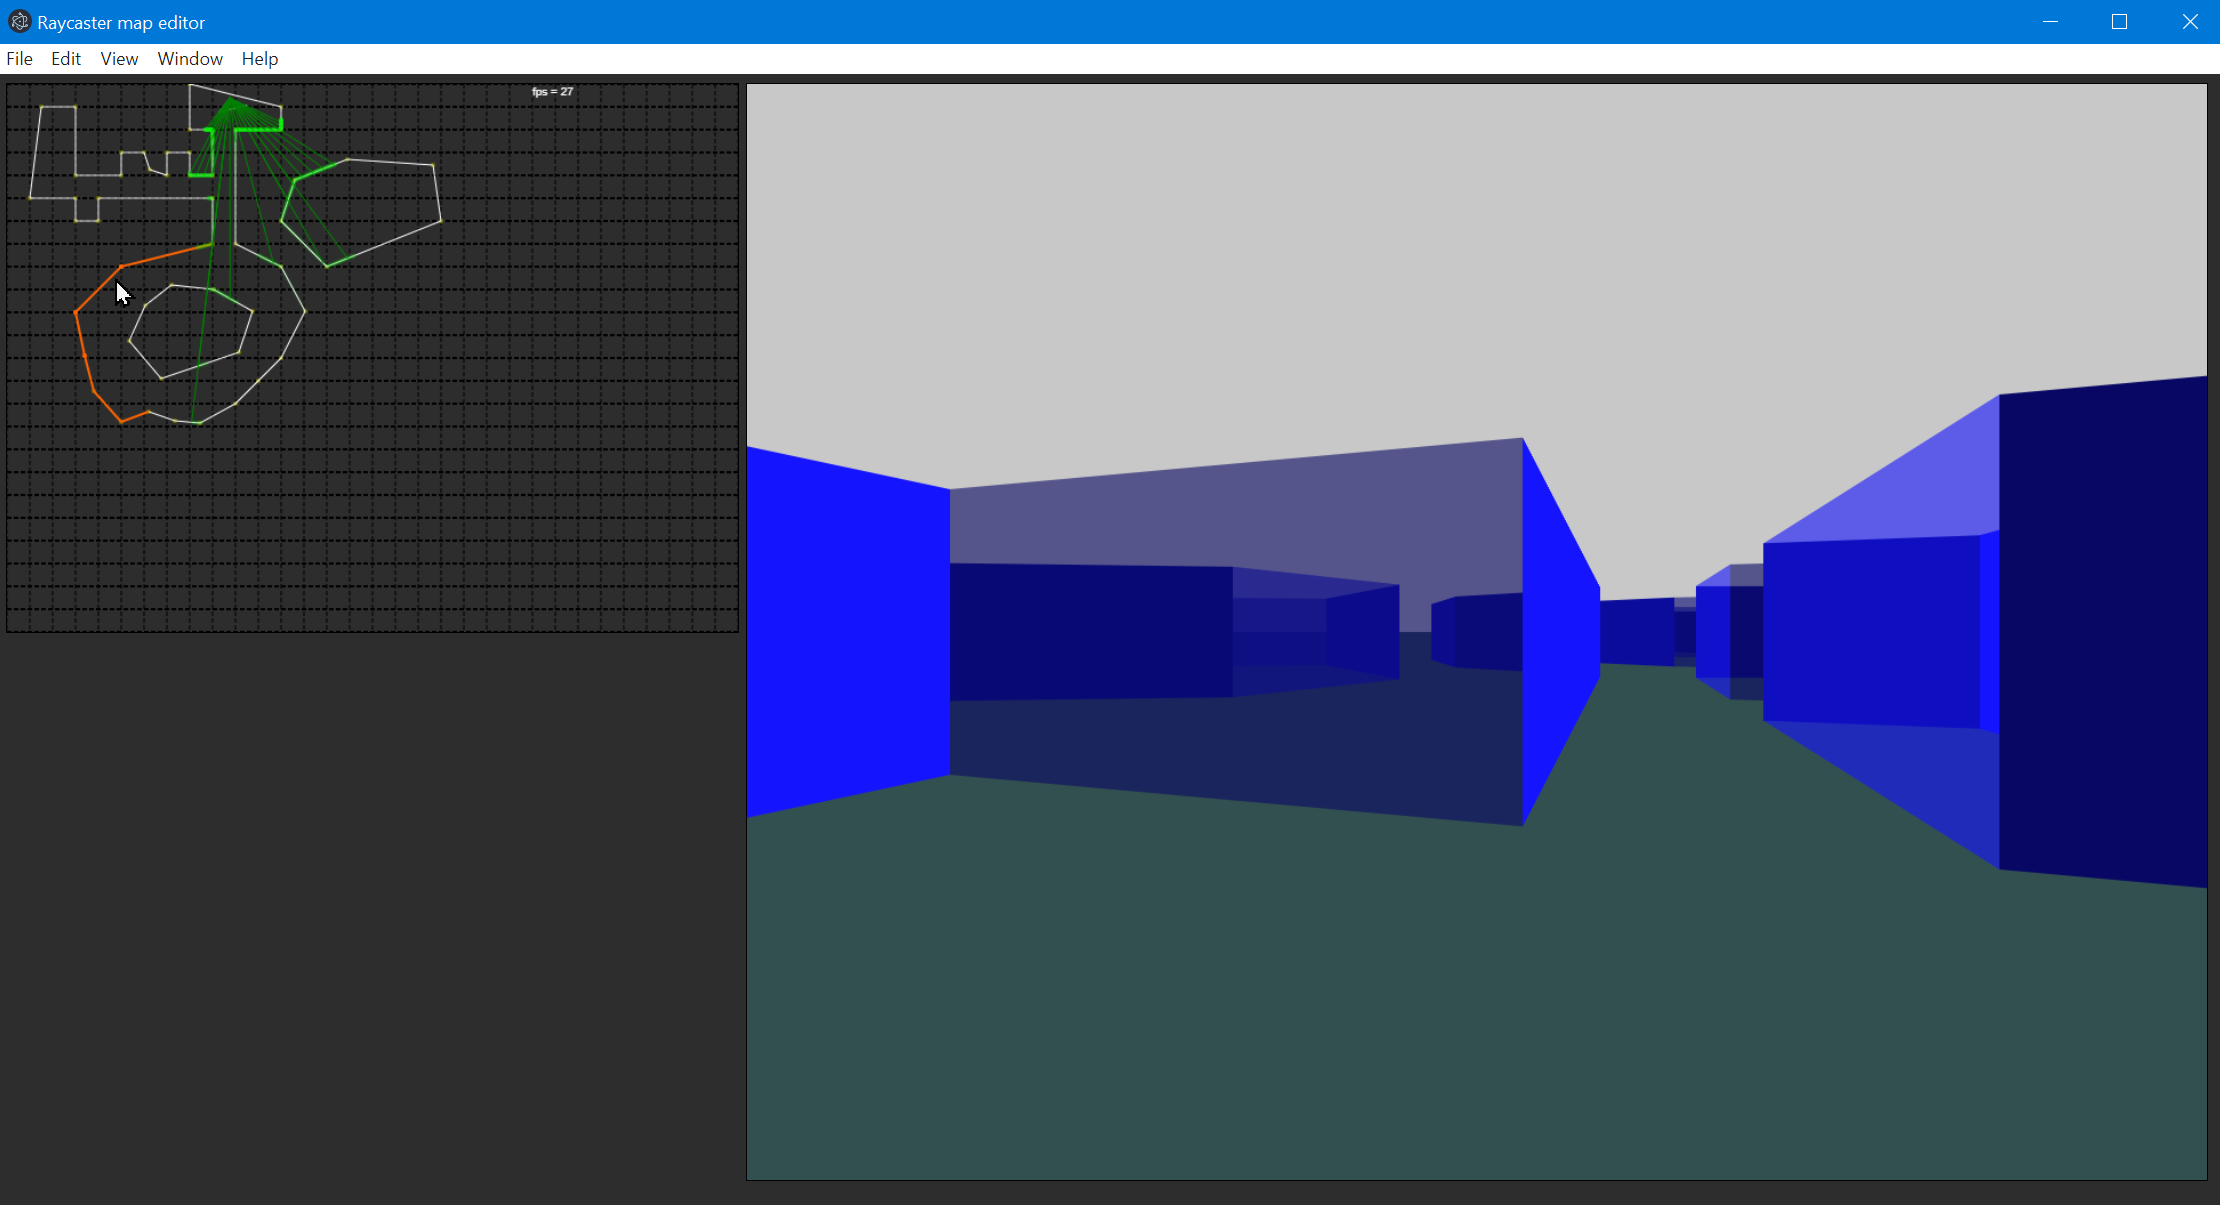
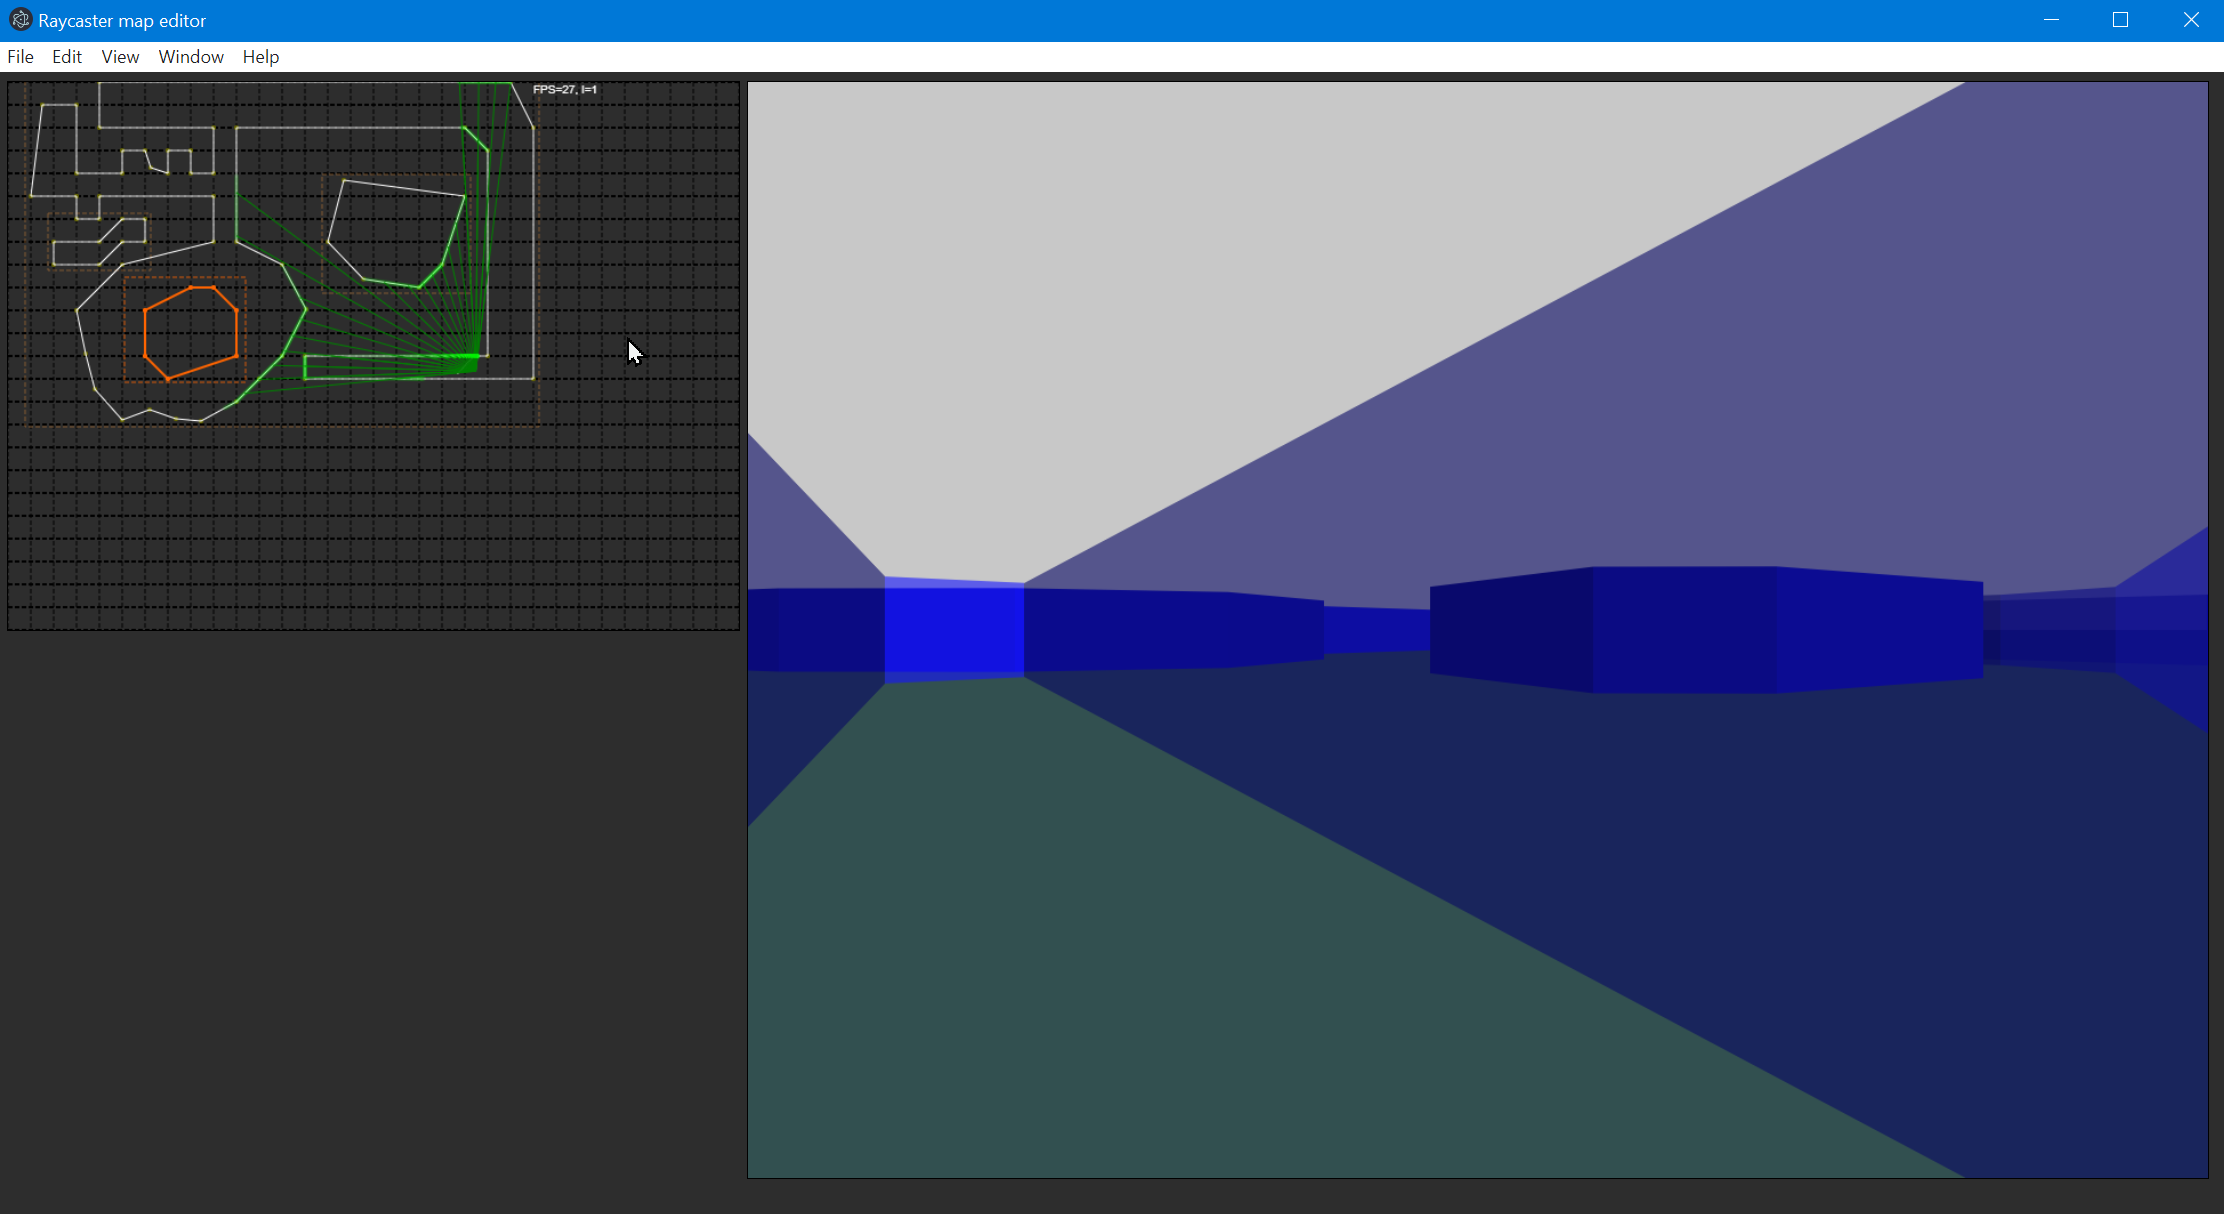
add ability to select entire polygon

diff --git a/src/renderer2d.ts b/src/renderer2d.ts
@@ -1,7 +1,7 @@
 import { ICamera, makeRays } from './camera';
 import { drawSegment, drawVector, drawRect, drawBoundingBox } from './drawing/drawing';
 import { IEdge, IGeometry, IVertex } from './geometry/vertex';
-import { hasEdge, hasVertex, World } from './world';
+import { isSelectedEdge, isSelectedVertex, isSelectedPolygon, World } from './world';
 
 export class Renderer2d {
     private context: CanvasRenderingContext2D;
@@ -42,23 +42,26 @@ export class Renderer2d {
     };
 
     private drawGeometry = (context: CanvasRenderingContext2D, geometry: IGeometry) => {
+        
         geometry.polygons.forEach(p => {
-            drawBoundingBox(context, p.boundingBox);
-            p.vertices.forEach(e => this.drawVertex(context, e));
-            p.edges.forEach(e => this.drawEdge(context, e));
+            const selected = isSelectedPolygon(p, this.world.selection);
+            drawBoundingBox(context, p.boundingBox, selected ? 'rgb(255,100,0,0.8)' : 'rgb(150,100,50,0.8)');
+            p.vertices.forEach(e => this.drawVertex(context, e, selected));
+            p.edges.forEach(e => this.drawEdge(context, e, selected));
         });
     };
 
-    private drawEdge = (context: CanvasRenderingContext2D, edge: IEdge) => {
-        const selected = hasEdge(edge, this.world.selection);
+    private drawEdge = (context: CanvasRenderingContext2D, edge: IEdge, selected: boolean = false) => {
+        selected = selected || isSelectedEdge(edge, this.world.selection);
         const color = selected ? 'rgb(255,100,0)' : 'rgb(255,255,255)';
         const width = selected ? 2 : 1;
         drawSegment(context, [edge.start.vector, edge.end.vector], color, width);
     };
    
 
-    private drawVertex = (context: CanvasRenderingContext2D, vertex: IVertex, color: string = 'rgb(100,100,0)') => {
-        drawVector(context, vertex.vector, hasVertex(vertex, this.world.selection) ? 'rgb(250,100,0)' : color);
+    private drawVertex = (context: CanvasRenderingContext2D, vertex: IVertex, selected: boolean = false) => {
+        selected = selected || isSelectedVertex(vertex, this.world.selection);
+        drawVector(context, vertex.vector, selected ? 'rgb(250,100,0)' : 'rgb(100,100,0)');
     };    
 
     private initGrid = () => {        

diff --git a/src/world.ts b/src/world.ts
@@ -5,8 +5,9 @@ import { loadGeometry } from './geometry/geometry';
 
 export type SelectedVertex = {kind: 'vertex', vertex: IVertex, polygon: IPolygon};
 export type SelectedEdge = {kind: 'edge', edge: IEdge, polygon: IPolygon};
+export type SelectedPolygon = {kind: 'polygon', polygon: IPolygon};
 
-export type SelectableElement = SelectedVertex | SelectedEdge;
+export type SelectableElement = SelectedVertex | SelectedEdge | SelectedPolygon;
 export type World = {
     camera: ICamera,    
     geometry: IGeometry,
@@ -16,9 +17,12 @@ export type World = {
 
 export const loadWorld = (world : World): World => ({...world, geometry: loadGeometry(world.geometry)});
 
-export const hasEdge = (edge: IEdge, selection: SelectableElement[]): boolean => {
+export const isSelectedPolygon = (p: IPolygon, selection: SelectableElement[]): boolean => {
+    return selection.some(_=>_.kind === 'polygon' && _.polygon === p);
+}
+export const isSelectedEdge = (edge: IEdge, selection: SelectableElement[]): boolean => {
     return selection.some(_=>_.kind === 'edge' && _.edge === edge);
 }
-export const hasVertex = (vertex: IVertex, selection: SelectableElement[]): boolean => {
+export const isSelectedVertex = (vertex: IVertex, selection: SelectableElement[]): boolean => {
     return selection.some(_=>_.kind === 'vertex' && _.vertex === vertex);
 }

diff --git a/src/actions/geometrySelector.ts b/src/actions/geometrySelector.ts
@@ -19,9 +19,9 @@ export class GeometrySelector implements IActionHandler {
         const collision = detectCollisionAt(location, this.world.geometry);
         if (!event.ctrlKey) this.world.selection.length = 0;
         if (!collision) return;
-        let s = selectedElement(collision);
+        let s = selectedElement(collision, event.shiftKey);
         let i = this.world.selection.indexOf(s);
-    
+        
         if (i === -1) {               
             this.world.selection.push(s);
         } else {
@@ -46,7 +46,8 @@ export const spaceTranslator = (canvas: HTMLCanvasElement): ISpaceTranslator => 
     }
 }
 
-const selectedElement = (collision : VertexCollision|EdgeCollision): SelectableElement => {
+const selectedElement = (collision : VertexCollision|EdgeCollision, selectPolygon: boolean): SelectableElement => {
+    if (selectPolygon) { return ({kind: 'polygon', polygon: collision.polygon})};
     return collision.kind === 'edge' 
     ? ({kind: collision.kind, edge: collision.edge, polygon: collision.polygon }) 
     : ({kind: collision.kind, vertex: collision.vertex, polygon: collision.polygon });

diff --git a/src/actions/geometryMover.ts b/src/actions/geometryMover.ts
@@ -47,7 +47,9 @@ export class GeometryMover implements IActionHandler {
         const movedVertices = Array.from(new Set<IVertex>(this.world.selection.reduce((acc, s) => {
             return (s.kind === 'vertex') 
                 ? acc.concat(s.vertex)
-                : acc.concat(s.edge.start, s.edge.end);
+                : (s.kind === 'edge') 
+                ? acc.concat(s.edge.start, s.edge.end)
+                : acc.concat(s.polygon.vertices);
         }, [])));
 
         movedVertices.forEach(v => copyIn(v.vector, this.snap(event.ctrlKey, add(v.vector, delta))));
